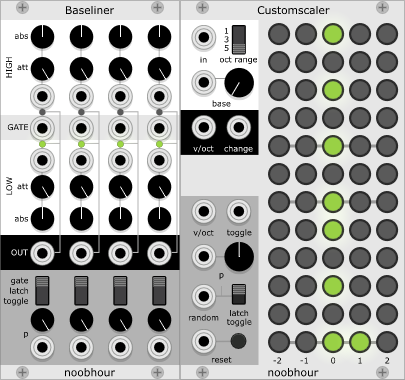
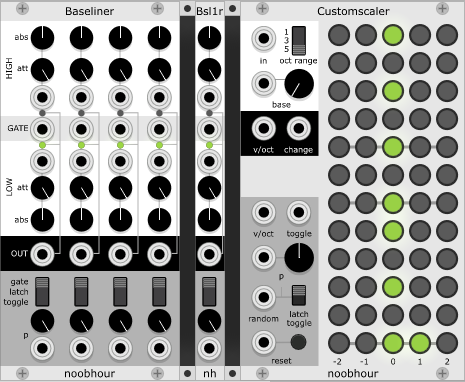
created Bsl1r

diff --git a/src/Baseliner.cpp b/src/Baseliner.cpp
@@ -1,7 +1,7 @@
 #include "Noobhour.hpp"
 #include "dsp/digital.hpp"
 
-
+template <int NUM_COLUMNS>
 struct Baseliner : Module {
   enum ParamIds {
 	SIGNAL1ABS_PARAM,
@@ -90,8 +90,6 @@ struct Baseliner : Module {
 	MODE_LATCH
   };
 
-  static const int NUM_COLUMNS = 4;  
-
   SchmittTrigger gateTriggers[NUM_COLUMNS];
   bool isActive[NUM_COLUMNS];
 
@@ -101,8 +99,8 @@ struct Baseliner : Module {
 
 };
 
-
-void Baseliner::step() {
+template <int NUM_COLUMNS>
+void Baseliner<NUM_COLUMNS>::step() {
   float outputs_cache[NUM_COLUMNS];
   
   for (int i = 0; i < NUM_COLUMNS; i++) {
@@ -213,15 +211,18 @@ void Baseliner::step() {
 
 }
 
-
+template <int NUM_COLUMNS>
 struct BaselinerWidget : ModuleWidget {
-  BaselinerWidget(Baseliner *module) : ModuleWidget(module) {
-	setPanel(SVG::load(assetPlugin(plugin, "res/Baseliner.svg")));
+  BaselinerWidget(Baseliner<NUM_COLUMNS> *module) : ModuleWidget(module) {
+	std::string filename = (NUM_COLUMNS == 1 ? "res/Bsl1r.svg" : "res/Baseliner.svg");
+	setPanel(SVG::load(assetPlugin(plugin, filename)));
 
-	addChild(Widget::create<ScrewSilver>(Vec(15, 0)));
-	addChild(Widget::create<ScrewSilver>(Vec(15, 365)));
-	addChild(Widget::create<ScrewSilver>(Vec(box.size.x-30, 0)));
-	addChild(Widget::create<ScrewSilver>(Vec(box.size.x-30, 365)));	
+	if (NUM_COLUMNS > 1) {
+	  addChild(Widget::create<ScrewSilver>(Vec(15, 0)));
+	  addChild(Widget::create<ScrewSilver>(Vec(15, 365)));
+	  addChild(Widget::create<ScrewSilver>(Vec(box.size.x-30, 0)));
+	  addChild(Widget::create<ScrewSilver>(Vec(box.size.x-30, 365)));
+	}
 
 	float wKnob = 30.23437f;
 	float wSwitch = 17.94267f;
@@ -236,6 +237,9 @@ struct BaselinerWidget : ModuleWidget {
 	float offsetLight = (wOutput - wLight) / 2.0f - 5.5; // no idea why 5.5, not centered otherwise
 		
 	float xOffset = 30.0f;
+	if (NUM_COLUMNS == 1) {
+	  xOffset = 2;
+	}
 	float yOffset = 20.0f;
 	float xGrid = 39.0f;
 	float yGrid = 32.0f;
@@ -244,28 +248,29 @@ struct BaselinerWidget : ModuleWidget {
 	float attenuatorOffset = 5.0f; // move attenuator and corresponding inputs closer to each other
 	float fixOffset = 5.0f;
 
-	for (int i=0; i<Baseliner::NUM_COLUMNS; i++) {
-	  addParam(ParamWidget::create<RoundSmallBlackKnob>(Vec(xOffset + float(i)*xGrid + offsetKnob, yOffset + yGrid * 0 + fixOffset), module, Baseliner::SIGNAL1ABS_PARAM + i, -5.f, 5.f, 0.f));	  	  
-	  addParam(ParamWidget::create<RoundSmallBlackKnob>(Vec(xOffset + float(i)*xGrid + offsetKnob, yOffset + yGrid * 1 + attenuatorOffset), module, Baseliner::SIGNAL1_PARAM + i, -1.f, 1.f, 1.f));	  
-	  addInput(Port::create<PJ301MPort>(Vec(xOffset + float(i)*xGrid + offsetInput, yOffset + yGrid * 2), Port::INPUT, module, Baseliner::SIGNAL1_INPUT + i));
+	for (int i=0; i<NUM_COLUMNS; i++) {
+	  addParam(ParamWidget::create<RoundSmallBlackKnob>(Vec(xOffset + float(i)*xGrid + offsetKnob, yOffset + yGrid * 0 + fixOffset), module, Baseliner<NUM_COLUMNS>::SIGNAL1ABS_PARAM + i, -5.f, 5.f, 0.f));	  	  
+	  addParam(ParamWidget::create<RoundSmallBlackKnob>(Vec(xOffset + float(i)*xGrid + offsetKnob, yOffset + yGrid * 1 + attenuatorOffset), module, Baseliner<NUM_COLUMNS>::SIGNAL1_PARAM + i, -1.f, 1.f, 1.f));	  
+	  addInput(Port::create<PJ301MPort>(Vec(xOffset + float(i)*xGrid + offsetInput, yOffset + yGrid * 2), Port::INPUT, module, Baseliner<NUM_COLUMNS>::SIGNAL1_INPUT + i));
 
-	  addChild(ModuleLightWidget::create<SmallLight<GreenRedLight>>(Vec(xOffset + float(i)*xGrid + offsetLight, yOffset + yGrid * 2.78f), module, Baseliner::SIGNAL1_LIGHT_POS + 2*i));	  
-	  addInput(Port::create<PJ301MPort>(Vec(xOffset + float(i)*xGrid + offsetInput, yOffset + yGrid * 3), Port::INPUT, module, Baseliner::GATE1_INPUT + i));
-	  addChild(ModuleLightWidget::create<SmallLight<GreenRedLight>>(Vec(xOffset + float(i)*xGrid + offsetLight, yOffset + yGrid * 3.78f), module, Baseliner::BASE1_LIGHT_POS + 2*i));
+	  addChild(ModuleLightWidget::create<SmallLight<GreenRedLight>>(Vec(xOffset + float(i)*xGrid + offsetLight, yOffset + yGrid * 2.78f), module, Baseliner<NUM_COLUMNS>::SIGNAL1_LIGHT_POS + 2*i));	  
+	  addInput(Port::create<PJ301MPort>(Vec(xOffset + float(i)*xGrid + offsetInput, yOffset + yGrid * 3), Port::INPUT, module, Baseliner<NUM_COLUMNS>::GATE1_INPUT + i));
+	  addChild(ModuleLightWidget::create<SmallLight<GreenRedLight>>(Vec(xOffset + float(i)*xGrid + offsetLight, yOffset + yGrid * 3.78f), module, Baseliner<NUM_COLUMNS>::BASE1_LIGHT_POS + 2*i));
 
-	  addInput(Port::create<PJ301MPort>(Vec(xOffset + float(i)*xGrid + offsetInput, yOffset + yGrid * 4), Port::INPUT, module, Baseliner::BASE1_INPUT + i));		
-	  addParam(ParamWidget::create<RoundSmallBlackKnob>(Vec(xOffset + float(i)*xGrid + offsetKnob, yOffset + yGrid* 5 - attenuatorOffset), module, Baseliner::BASE1_PARAM + i, -1.f, 1.f, 1.f));
-	  addParam(ParamWidget::create<RoundSmallBlackKnob>(Vec(xOffset + float(i)*xGrid + offsetKnob, yOffset + yGrid* 6 - fixOffset), module, Baseliner::BASE1ABS_PARAM + i, -5.f, 5.f, 0.f));
+	  addInput(Port::create<PJ301MPort>(Vec(xOffset + float(i)*xGrid + offsetInput, yOffset + yGrid * 4), Port::INPUT, module, Baseliner<NUM_COLUMNS>::BASE1_INPUT + i));		
+	  addParam(ParamWidget::create<RoundSmallBlackKnob>(Vec(xOffset + float(i)*xGrid + offsetKnob, yOffset + yGrid* 5 - attenuatorOffset), module, Baseliner<NUM_COLUMNS>::BASE1_PARAM + i, -1.f, 1.f, 1.f));
+	  addParam(ParamWidget::create<RoundSmallBlackKnob>(Vec(xOffset + float(i)*xGrid + offsetKnob, yOffset + yGrid* 6 - fixOffset), module, Baseliner<NUM_COLUMNS>::BASE1ABS_PARAM + i, -5.f, 5.f, 0.f));
 	  
-	  addOutput(Port::create<PJ301MPort>(Vec(xOffset + float(i)*xGrid + offsetOutput, yOffset + yGrid * 7 - fixOffset + 2), Port::OUTPUT, module, Baseliner::OUT1_OUTPUT + i));
+	  addOutput(Port::create<PJ301MPort>(Vec(xOffset + float(i)*xGrid + offsetOutput, yOffset + yGrid * 7 - fixOffset + 2), Port::OUTPUT, module, Baseliner<NUM_COLUMNS>::OUT1_OUTPUT + i));
 	  
-	  addParam(ParamWidget::create<CKSSThree>(Vec(xOffset + float(i)*xGrid + offsetSwitch, yOffset + yGrid * 8 + probOffset), module, Baseliner::MODE1_PARAM + i, 0.0f, 2.0f, 2.0f));
-	  addParam(ParamWidget::create<RoundSmallBlackKnob>(Vec(xOffset + float(i)*xGrid + offsetKnob, yOffset + yGrid * 9 + probOffset), module, Baseliner::P1_PARAM + i, 0.0f, 1.0f, 1.0f));
-	  addInput(Port::create<PJ301MPort>(Vec(xOffset + float(i)*xGrid + offsetInput, yOffset + yGrid * 10 + probOffset - attenuatorOffset), Port::INPUT, module, Baseliner::P1_INPUT + i));
+	  addParam(ParamWidget::create<CKSSThree>(Vec(xOffset + float(i)*xGrid + offsetSwitch, yOffset + yGrid * 8 + probOffset), module, Baseliner<NUM_COLUMNS>::MODE1_PARAM + i, 0.0f, 2.0f, 2.0f));
+	  addParam(ParamWidget::create<RoundSmallBlackKnob>(Vec(xOffset + float(i)*xGrid + offsetKnob, yOffset + yGrid * 9 + probOffset), module, Baseliner<NUM_COLUMNS>::P1_PARAM + i, 0.0f, 1.0f, 1.0f));
+	  addInput(Port::create<PJ301MPort>(Vec(xOffset + float(i)*xGrid + offsetInput, yOffset + yGrid * 10 + probOffset - attenuatorOffset), Port::INPUT, module, Baseliner<NUM_COLUMNS>::P1_INPUT + i));
 	}
   }
 
 };
 
 
-Model *modelBaseliner = Model::create<Baseliner, BaselinerWidget>("noobhour", "baseliner", "Baseliner", RANDOM_TAG, ATTENUATOR_TAG, SWITCH_TAG, UTILITY_TAG, QUAD_TAG);
+Model *modelBaseliner = Model::create<Baseliner<4>, BaselinerWidget<4>>("noobhour", "baseliner", "Baseliner", RANDOM_TAG, ATTENUATOR_TAG, SWITCH_TAG, UTILITY_TAG, QUAD_TAG);
+Model *modelBsl1r = Model::create<Baseliner<1>, BaselinerWidget<1>>("noobhour", "bsl1r", "Bsl1r", RANDOM_TAG, ATTENUATOR_TAG, SWITCH_TAG, UTILITY_TAG);

diff --git a/src/Noobhour.hpp b/src/Noobhour.hpp
@@ -8,4 +8,5 @@ extern Plugin *plugin;
 
 // Forward-declare each Model, defined in each module source file
 extern Model *modelBaseliner;
+extern Model *modelBsl1r;
 extern Model *modelCustomscaler;

diff --git a/src/Noobhour.cpp b/src/Noobhour.cpp
@@ -10,5 +10,6 @@ void init(Plugin *p) {
 	p->version = TOSTRING(VERSION);
 
 	p->addModel(modelBaseliner);
+	p->addModel(modelBsl1r);	
 	p->addModel(modelCustomscaler);	
 }

diff --git a/README.md b/README.md
@@ -4,6 +4,7 @@
 A collection of modules for [VCV Rack](https://github.com/VCVRack/Rack):
 
 - **Baseliner**, a 4x probabilistic attenuverting switch. 
+- **Bsl1r**, a single-channel **Baseliner**
 - **Customscaler**, a quantizer for custom, CV-modifiable scales.
 
 ## Baseliner
@@ -89,6 +90,12 @@ as a rhythm generator, mixer, distorter, melody creator, and drum
 sequencer.
 
 [![Baseliner demo](http://img.youtube.com/vi/1B4TPm0vFOA/0.jpg)](http://www.youtube.com/watch?v=1B4TPm0vFOA)
+
+## Bsl1r
+A single-channel **Baseliner**.
+
+![Bsl1r](./doc/Bsl1r.png)
+
 
 ## Customscaler
 A quantizer for custom, CV-modifiable scales.
